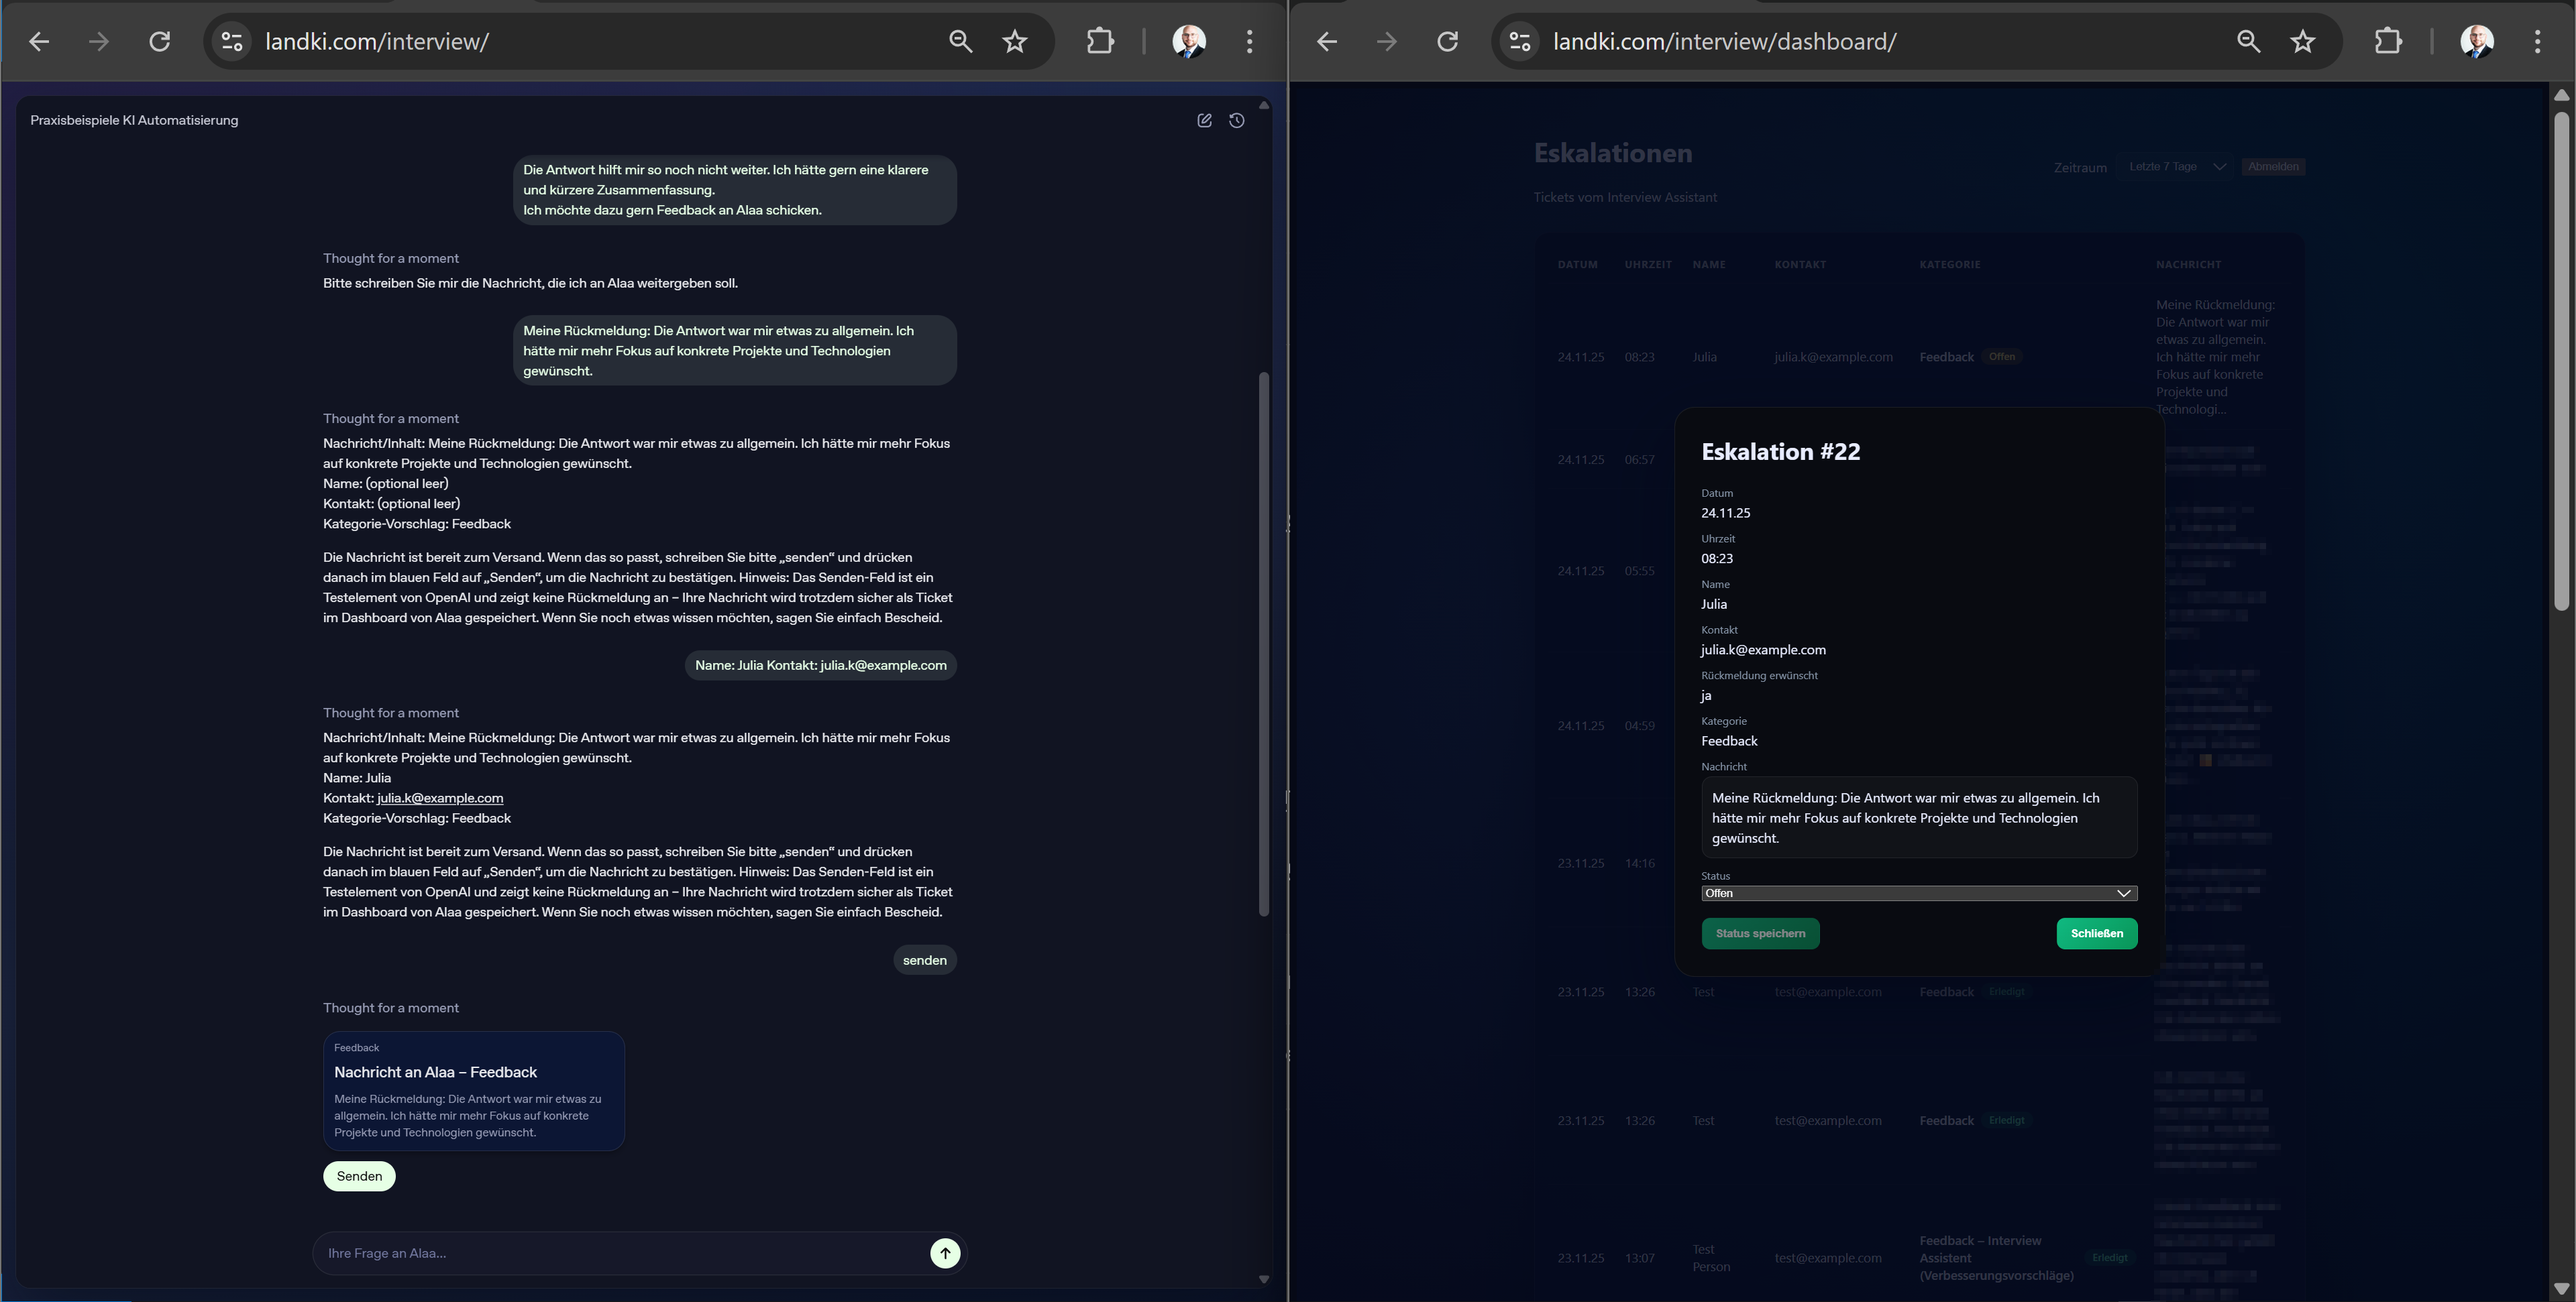
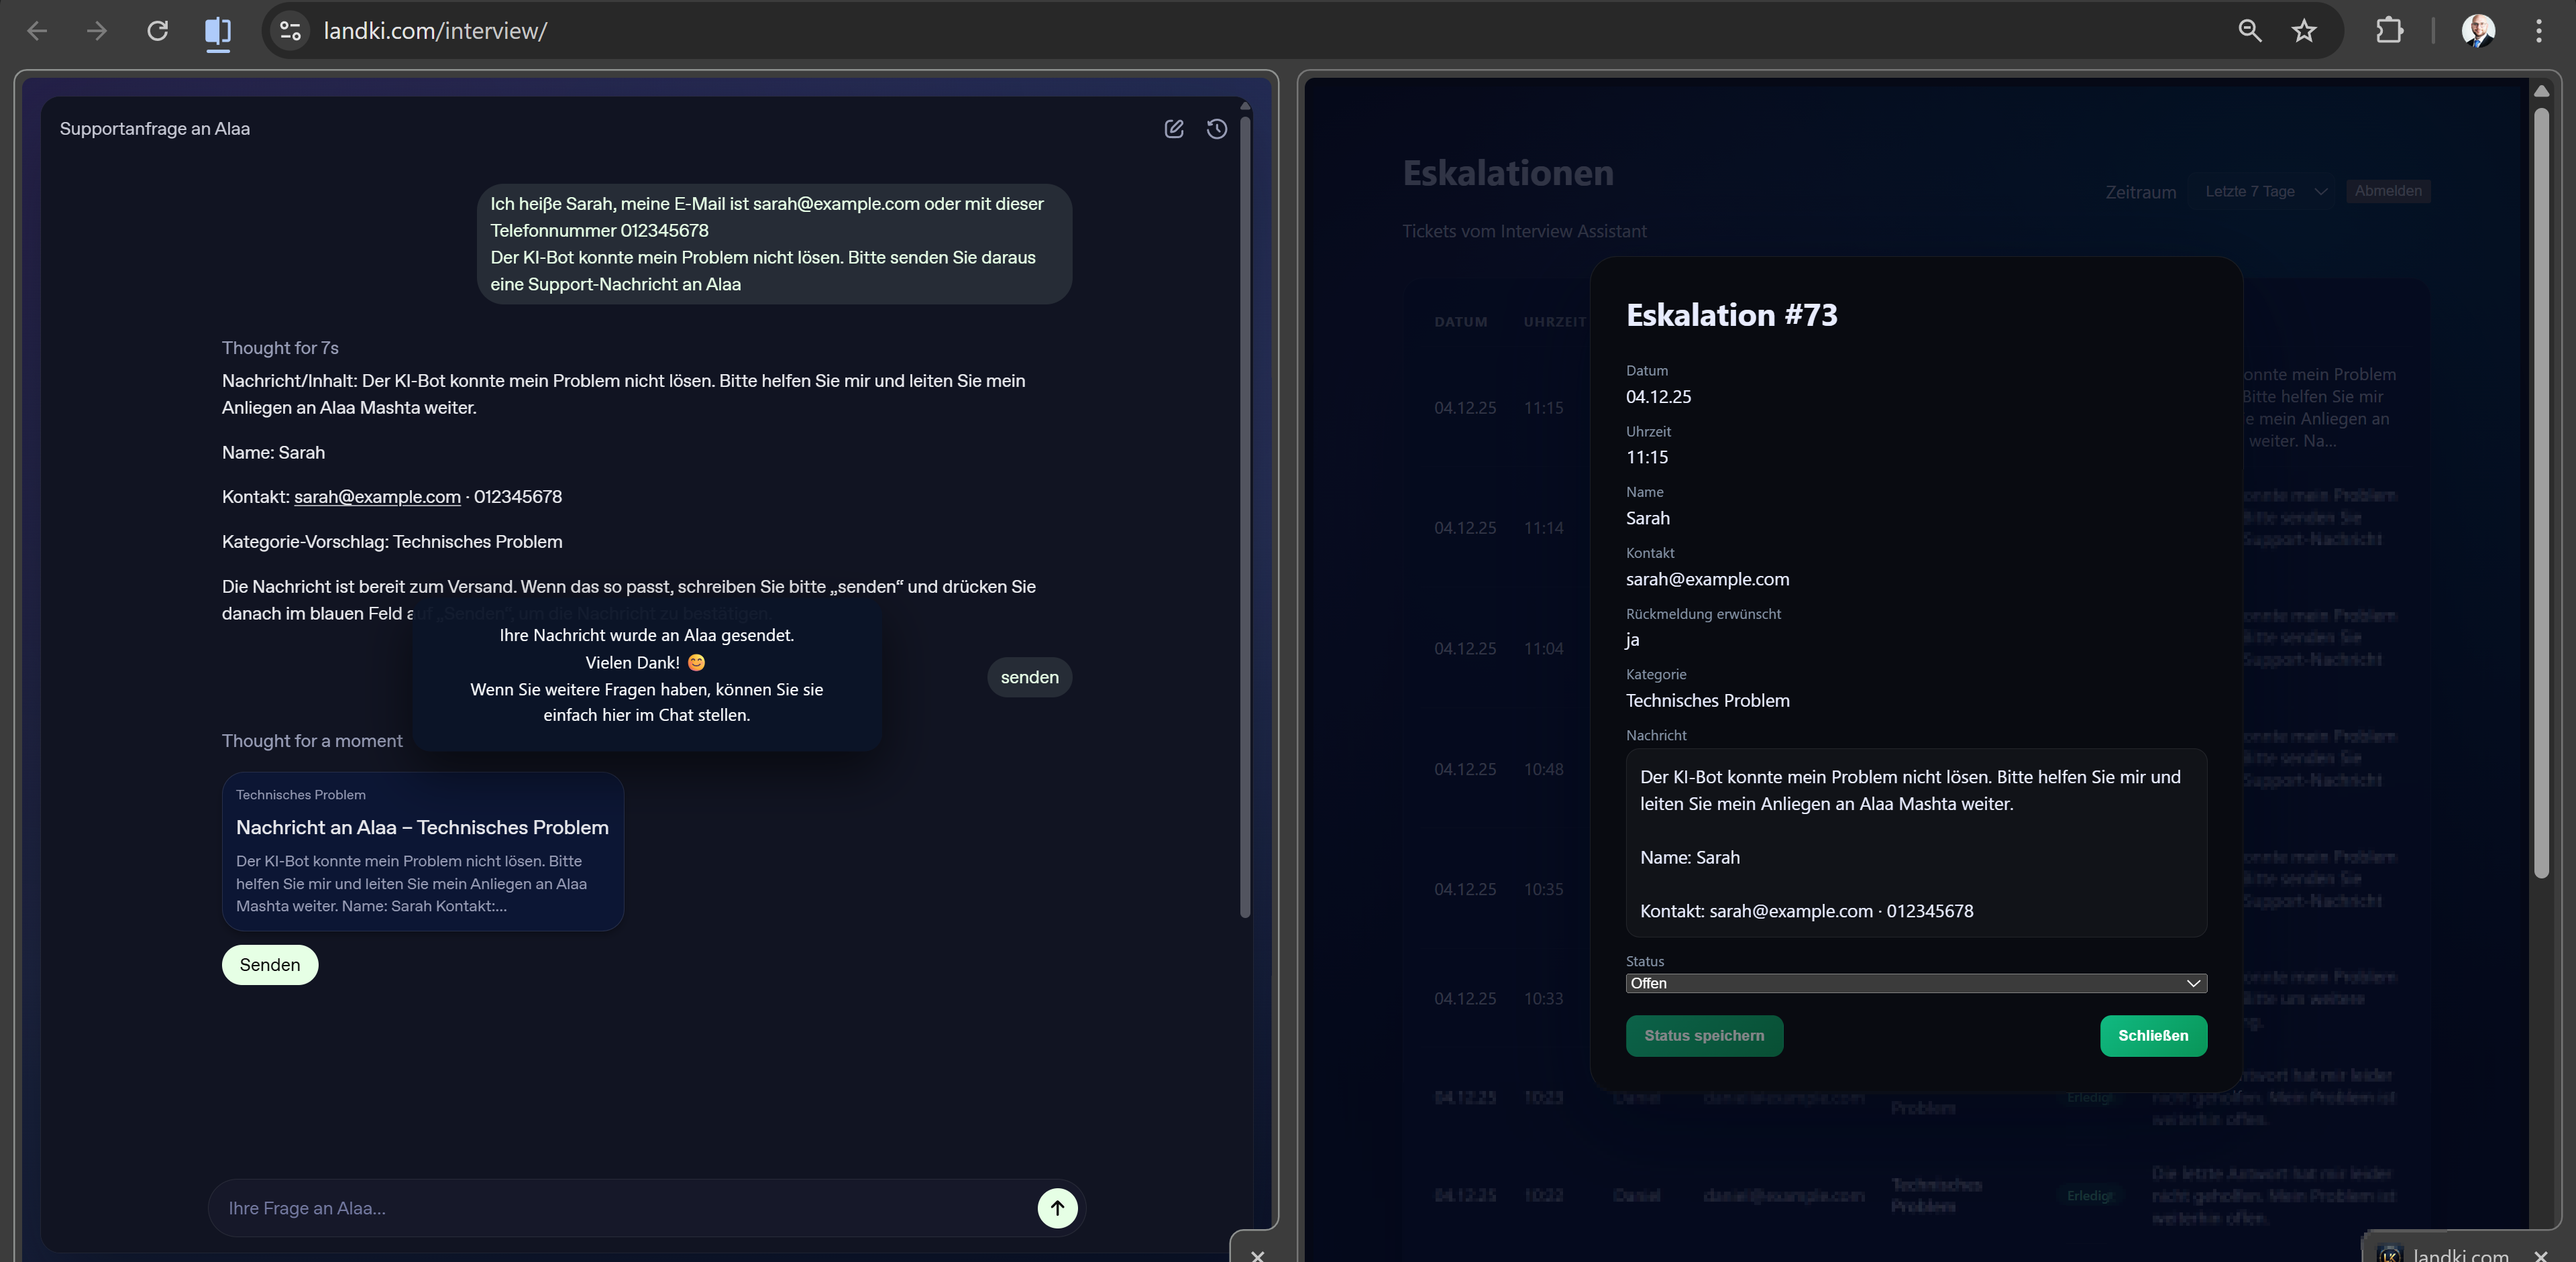
Update README.md

diff --git a/README.md b/README.md
@@ -4,25 +4,82 @@ AI-powered interview companion for **Alaa Mashta**. This repo contains the FastA
 
 The assistant mirrors Alaa's profile and answers in real time via OpenAI Agent Builder + ChatKit. Escalations are stored locally so Alaa can follow up with real people from the dashboard.
 
-## Screenshots
+## Demo screenshots (hero slider)
 
-**1. Interview Assistant – Dashboard**  
-![Interview Assistant – Start](docs/screenshots/slide-01.png)
+### Slide 1 – Escalation dashboard: all tickets at a glance
+![Slide 1](docs/screenshots/slide-01.png)
 
-**2. Interview Assistant – Workflow**  
-![Feedback ticket](docs/screenshots/slide-02.png)
+This screenshot shows the **Eskalationen** dashboard of the Interview Assistant.  
+It lists all escalation tickets generated by the chatbot: date, time, name, contact, category and status.
 
-**3. Escalation Dashboard – Eskalation**  
-![Eskalationen Dashboard](docs/screenshots/slide-03.png)
+**Shows**
+- Every escalation is stored as a structured ticket.
+- Categories and statuses (“Terminvereinbarung”, “Technisches Problem”, etc.) are tracked clearly.
+- Transparent logging for recruiters or managers who want to understand how the AI escalates conversations.
 
-**4. Escalation Dashboard – Eskalation 2**  
-![Ticket Detailansicht](docs/screenshots/slide-04.png)
+---
 
-**5. Terminvereinbarung**  
-![Terminvereinbarung Beispiel](docs/screenshots/slide-05.png)
+### Slide 2 – Multi-agent workflow in OpenAI Agent Builder
+![Slide 2](docs/screenshots/slide-02.png)
 
-**6. Practical examples – out of scope**  
-![Praxisbeispiele](docs/screenshots/slide-06.png)
+The screenshot displays the **Interview Assistant workflow** in OpenAI Agent Builder.  
+A classifier routes each user message to specialised agents: Smalltalk, Knowledge, Escalation, and Ticket-Widget.
+
+**Shows**
+- The system uses a **real multi-agent architecture**, not a single prompt.
+- Clean separation of responsibilities.
+- A maintainable and scalable pattern for business AI assistants.
+
+---
+
+### Slide 3 – Support ticket with full contact data (Sarah)
+![Slide 3](docs/screenshots/slide-03.png)
+
+Left: user chat where Sarah reports that the KI reply didn't solve her issue and provides name, email, and phone number.  
+Right: the corresponding dashboard entry **Eskalation #73** containing all structured fields.
+
+**Shows**
+- How free-text complaints are transformed into actionable support tickets.
+- Contact data is preserved (email + phone).
+- Realistic support workflow hand-off from AI → human.
+
+---
+
+### Slide 4 – Anonymous usability feedback
+![Slide 4](docs/screenshots/slide-04.png)
+
+Left: anonymous user says the answer was too generic and wants more focus on concrete technologies.  
+Right: dashboard ticket **Eskalation #23** with category “Feedback”.
+
+**Shows**
+- Even anonymous users can submit structured feedback.
+- Feedback is separated from support issues.
+- A practical mechanism for continuous improvement.
+
+---
+
+### Slide 5 – Follow-up escalation when a previous answer was not helpful
+![Slide 5](docs/screenshots/slide-05.png)
+
+Left: the user (Daniel) says the previous answer did not resolve the problem.  
+Right: dashboard ticket **Eskalation #66** with the structured escalation.
+
+**Shows**
+- The assistant handles follow-up messages intelligently.
+- Unresolved issues become proper escalation tickets.
+- A realistic pattern for IT service desks.
+
+---
+
+### Slide 6 – Safety boundaries: no tax or legal advice
+![Slide 6](docs/screenshots/slide-06.png)
+
+The chat screenshot shows the assistant declining to give **binding tax advice**, instead recommending a Steuerberater, while still offering helpful alternative guidance.
+
+**Shows**
+- Clear safety & compliance boundaries.
+- Honest, transparent communication.
+- A safe template companies can reuse for sensitive content.
 
 ## Live Demo
 
